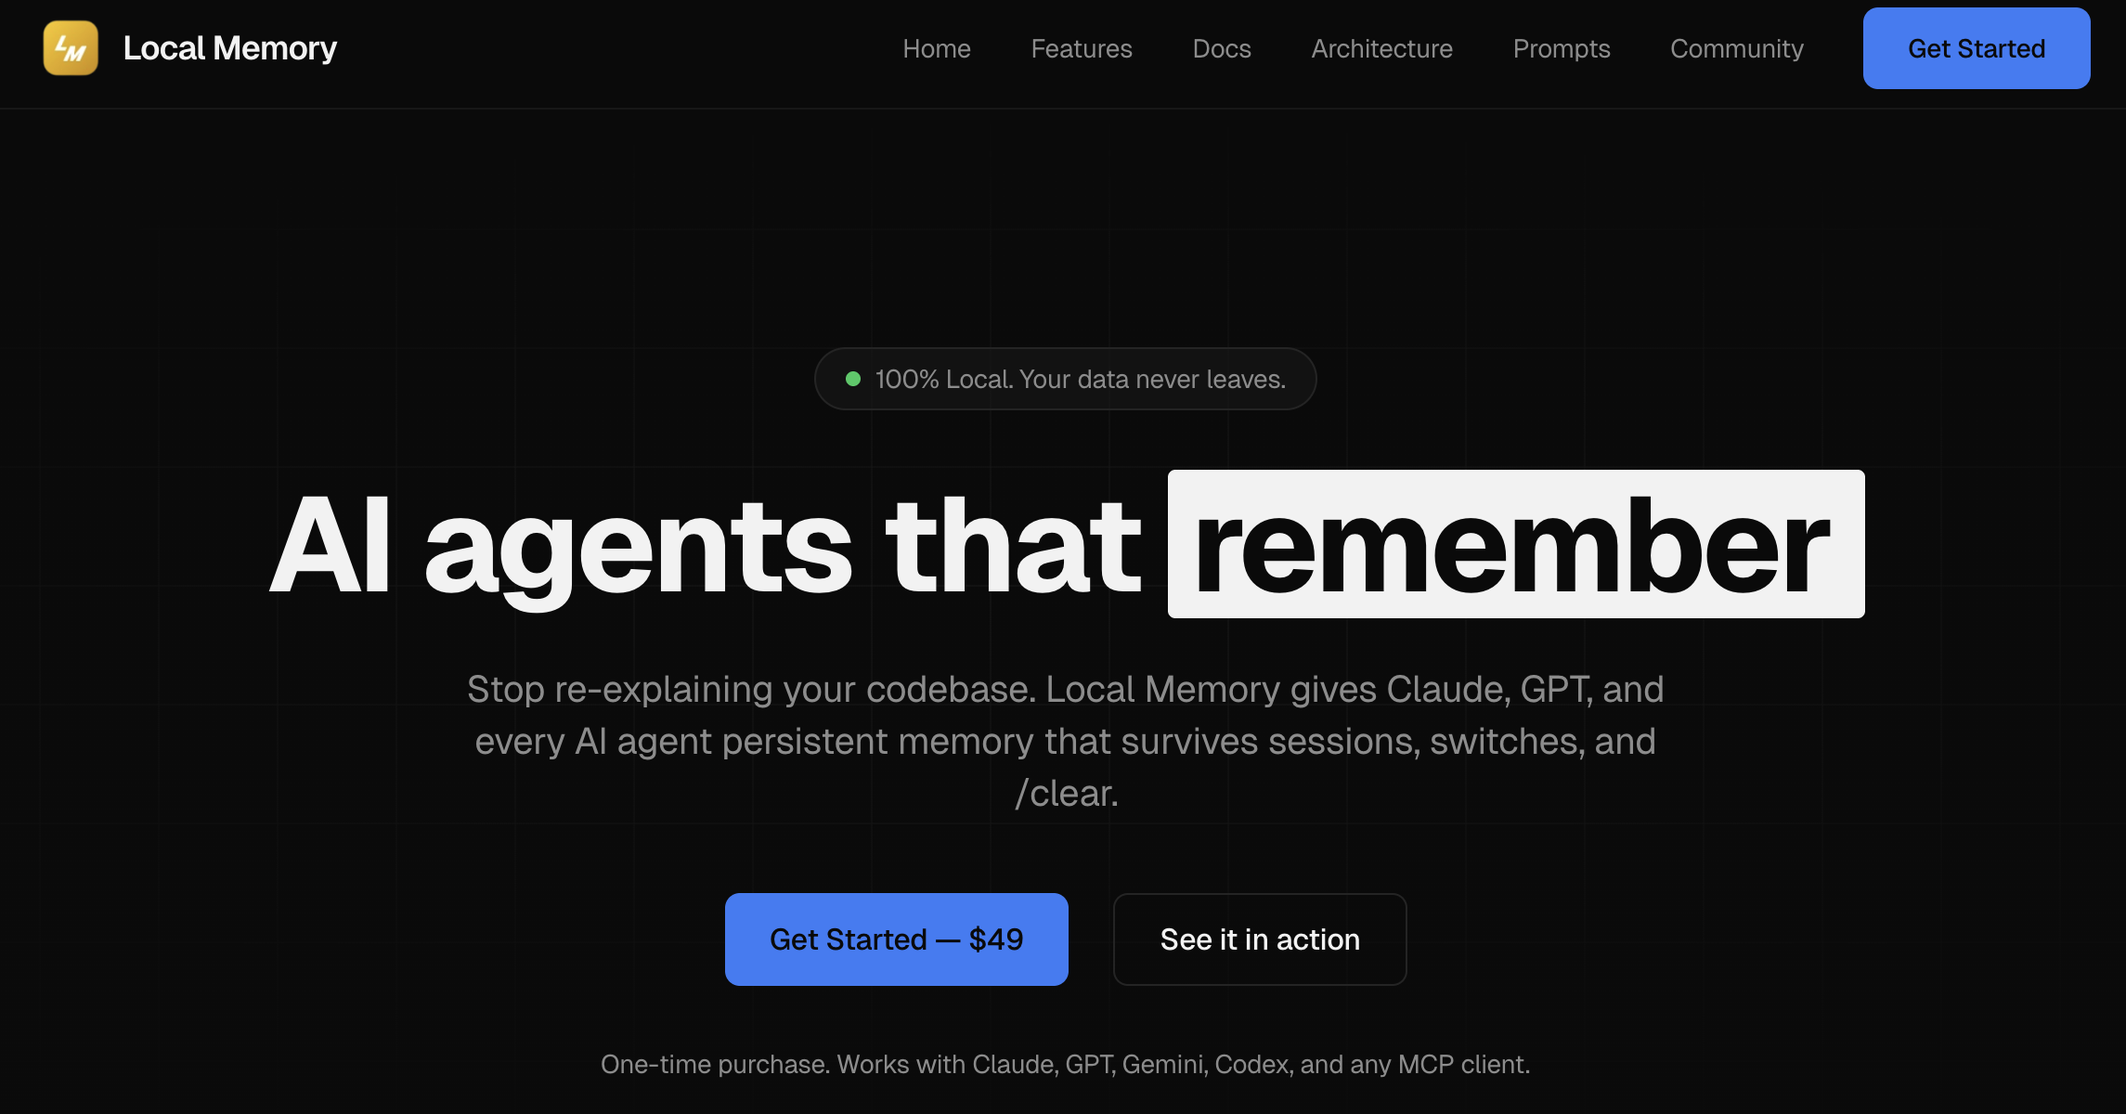
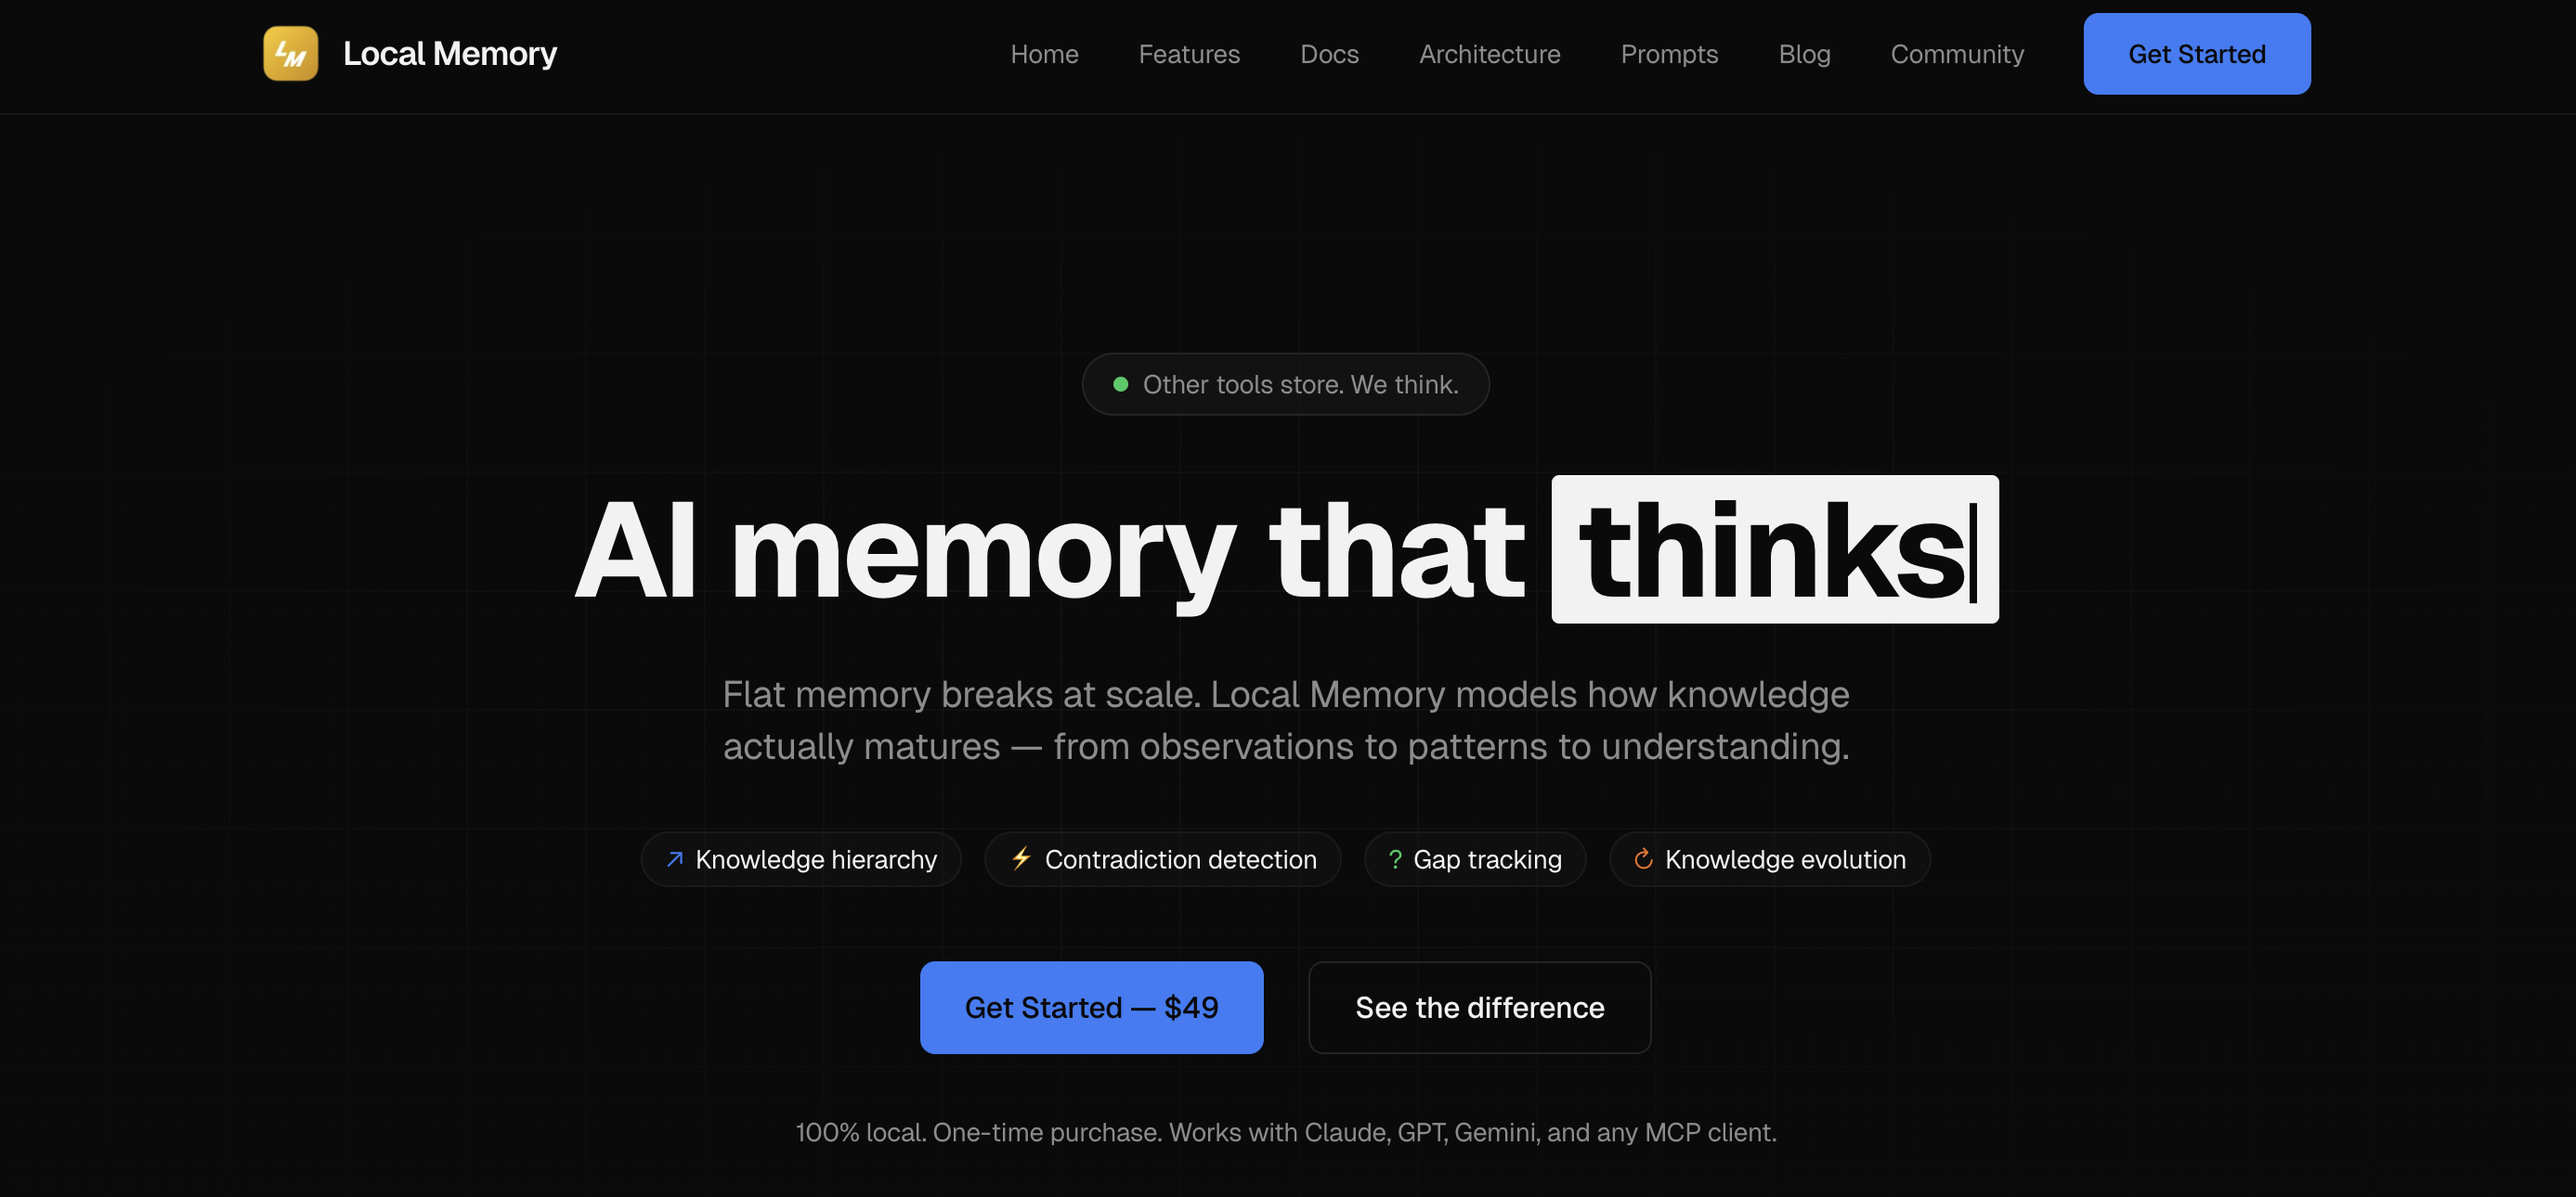
Update title, description, and preview.

diff --git a/index.html b/index.html
@@ -8,8 +8,8 @@
     <link rel="preconnect" href="https://fonts.googleapis.com">
     <link rel="preconnect" href="https://fonts.gstatic.com" crossorigin>
     <link href="https://fonts.googleapis.com/css2?family=Geist:wght@400;500;600;700&family=Geist+Mono:wght@400;500;600&display=swap" rel="stylesheet">
-    <title>Local Memory - Cure AI Context Amnesia | Build Permanent AI Intelligence</title>
-    <meta name="description" content="Stop repeating yourself to AI agents. Local Memory transforms developer expertise into persistent AI intelligence with 8 unified MCP tools, 97.5% token optimization, and lightning-fast 10-57ms responses. One-time purchase, lifetime value." />
+    <title>Local Memory — Long-Term Memory Infrastructure for AI Agents</title>
+    <meta name="description" content="Private, persistent memory for AI agents. Knowledge that evolves from observations to insights. Local embeddings, multi-provider reasoning, semantic search. Fast, ships as a single binary. Works with Claude, GPT, Ollama, and OpenAI-compatible platforms." />
     <meta name="author" content="Local Memory" />
     <meta name="keywords" content="AI context amnesia, persistent AI memory, AI intelligence building, context engineering, MCP integration, Claude Desktop memory, AI agent memory, cross-session learning, developer productivity, AI memory system, Model Context Protocol, vector search, token optimization" />
 
@@ -22,22 +22,22 @@
     <link rel="sitemap" type="application/xml" href="/sitemap.xml">
 
     <!-- Open Graph Meta Tags -->
-    <meta property="og:title" content="Local Memory - Cure AI Context Amnesia | Build Permanent AI Intelligence" />
-    <meta property="og:description" content="Stop repeating yourself to AI agents. Transform developer expertise into persistent AI intelligence with 8 unified MCP tools, 97.5% token optimization, and 10-57ms response times. One-time purchase, lifetime value." />
+    <meta property="og:title" content="Local Memory — Long-Term Memory Infrastructure for AI Agents" />
+    <meta property="og:description" content="Private, persistent memory for AI agents. Knowledge that evolves from observations to insights. Local embeddings, multi-provider reasoning, semantic search. Fast, ships as a single binary. Works with Claude, GPT, Ollama, and OpenAI-compatible platforms." />
     <meta property="og:type" content="website" />
     <meta property="og:url" content="https://localmemory.co/" />
     <meta property="og:image" content="https://localmemory.co/preview.png" />
-    <meta property="og:image:alt" content="Local Memory - Transform AI context amnesia into permanent intelligence" />
+    <meta property="og:image:alt" content="Local Memory — Long-Term Memory Infrastructure for AI Agents" />
     <meta property="og:site_name" content="Local Memory" />
     <meta property="og:locale" content="en_US" />
 
     <!-- Twitter Card Meta Tags -->
     <meta name="twitter:card" content="summary_large_image" />
     <meta name="twitter:site" content="@local_memory" />
-    <meta name="twitter:title" content="Local Memory - Cure AI Context Amnesia" />
-    <meta name="twitter:description" content="Stop repeating yourself to AI agents. Build permanent AI intelligence with 97.5% token optimization and 10-57ms responses. One-time purchase, lifetime value." />
+    <meta name="twitter:title" content="Local Memory — Long-Term Memory Infrastructure for AI Agents" />
+    <meta name="twitter:description" content="Private, persistent memory for AI agents. Knowledge that evolves from observations to insights. Local embeddings, multi-provider reasoning, semantic search. Fast, ships as a single binary. Works with Claude, GPT, Ollama, and OpenAI-compatible platforms." />
     <meta name="twitter:image" content="https://localmemory.co/preview.png" />
-    <meta name="twitter:image:alt" content="Local Memory dashboard showing AI context engineering and persistent intelligence" />
+    <meta name="twitter:image:alt" content="Local Memory — Long-Term Memory Infrastructure for AI Agents" />
 
     <!-- Structured Data (JSON-LD) -->
     <script type="application/ld+json">
@@ -45,7 +45,7 @@
       "@context": "https://schema.org",
       "@type": "SoftwareApplication",
       "name": "Local Memory",
-      "description": "Transform developer expertise into persistent AI intelligence. Cure AI context amnesia with 8 unified MCP tools, 97.5% token optimization, and lightning-fast 10-57ms responses.",
+      "description": "Private, persistent memory for AI agents. Knowledge that evolves from observations to insights. Local embeddings, multi-provider reasoning, semantic search. Fast, ships as a single binary. Works with Claude, GPT, Ollama, and OpenAI-compatible platforms.",
       "url": "https://localmemory.co",
       "applicationCategory": "DeveloperApplication",
       "operatingSystem": ["macOS", "Windows", "Linux"],
@@ -85,7 +85,7 @@
       "name": "Local Memory",
       "url": "https://localmemory.co",
       "logo": "https://localmemory.co/favicon.png",
-      "description": "Local Memory transforms developer expertise into persistent AI intelligence, curing AI context amnesia with advanced memory systems.",
+      "description": "Private, persistent memory for AI agents. Knowledge that evolves from observations to insights. Local embeddings, multi-provider reasoning, semantic search. Fast, ships as a single binary.",
       "foundingDate": "2025",
       "sameAs": [
         "https://github.com/danieleugenewilliams/local-memory-golang",

diff --git a/src/components/DynamicPageTitle.tsx b/src/components/DynamicPageTitle.tsx
@@ -9,8 +9,8 @@ interface PageMetadata {
 
 const routeMetadata: Record<string, PageMetadata> = {
   '/': {
-    title: 'Home - Local Memory | Cure AI Context Amnesia, Build Permanent AI Intelligence',
-    description: 'Stop repeating yourself to AI agents. Local Memory transforms developer expertise into persistent AI intelligence with 8 unified MCP tools, 97.5% token optimization, and lightning-fast 10-57ms responses. One-time purchase, lifetime value.',
+    title: 'Local Memory — Long-Term Memory Infrastructure for AI Agents',
+    description: 'Private, persistent memory for AI agents. Knowledge that evolves from observations to insights. Local embeddings, multi-provider reasoning, semantic search. Fast, ships as a single binary. Works with Claude, GPT, Ollama, and OpenAI-compatible platforms.',
     keywords: 'AI context amnesia, persistent AI memory, AI intelligence building, context engineering, MCP integration, Claude Desktop memory, AI agent memory, cross-session learning, developer productivity, AI memory system, Model Context Protocol, vector search, token optimization'
   },
   '/features': {
